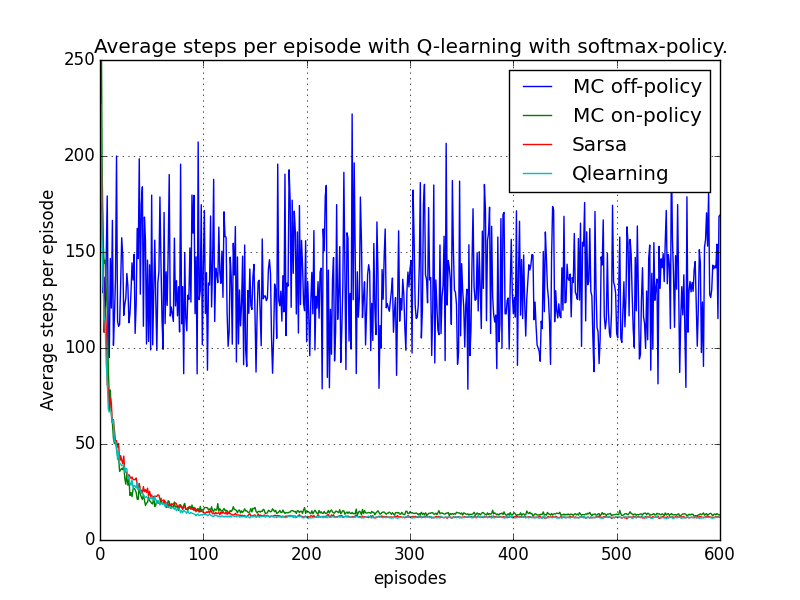
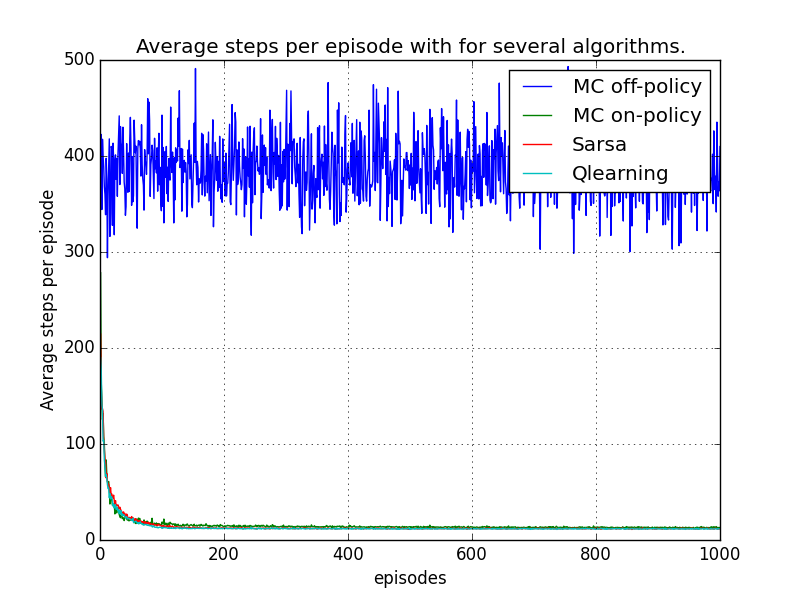
Assignment 2 finished

Changed region(s): [[0.0625, 0.12, 0.9375, 0.93], [0.0625, 0.06, 0.9062, 0.12], [0.0625, 0.24, 0.0938, 0.27]]

diff --git a/Assignment 2/MCoff.py b/Assignment 2/MCoff.py
@@ -3,20 +3,15 @@ from policies import epsGreedyPolicy, maxIndices
 import numpy as np
 import random
 
-def MCoff(episodes, behaPolicy=None, initValue=15,discount=0.9):
+def MCoff(episodes, behaPolicy, matches=[], initValue=15,discount=0.9):
 	# behaPolicy = dictionary with keys (state,action) and value P(action|state)
 
-	world = World((0,0),(1,1))
 
+	world = World((0,0),(1,1))
 	movelist = world.moveList()
-	behaPolicy = {}
-	for state in world.allStates():
-		for move in movelist:
-			behaPolicy[(state, move)] = 1.0/len(movelist)
 	def policy(world):
 		return world.pickElementWithProbs([(move,behaPolicy[(world.position,move)]) for move in movelist])
 
-	ourPolicy = {}
 	# initialize Q value table and Return list for every (s,a)-pair
 	Q = {}
 	R = {}
@@ -28,9 +23,7 @@ def MCoff(episodes, behaPolicy=None, initValue=15,discount=0.9):
 			denum[state,move] = 0.0
 			Q[state,move] = float(initValue) # some value
 			R[state,move] = [] # empty list; return = cummulative discounted reward
-			ourPolicy[state] = move
 	steps = [0]*episodes # list counting number of iterations
-
 	for epi in range(episodes):
 		time = 0
 		totalTime =0
@@ -41,11 +34,12 @@ def MCoff(episodes, behaPolicy=None, initValue=15,discount=0.9):
 		while True:
 			action = policy(world)
 			episode.append((world.position, action))
+			if action == None:
+				print action, state
 			world.move(action)
 			if world.stopState():
 				break
-			else:
-				world.performPreyMove()
+			world.performPreyMove()
 
 		# save the pairs that match, and their first occurence
 		matchingHistory = {}
@@ -58,23 +52,26 @@ def MCoff(episodes, behaPolicy=None, initValue=15,discount=0.9):
 				last = len(episode)-i
 				break
 			matchingHistory[(state, action)] = len(episode)-i - 1
-
+		
+		matches.append(len(episode)-last)
+		
 		for (state, action) in matchingHistory:
-			w = np.prod([ 1.0/behaPolicy[episode[j]] for j in range(matchingHistory[(state, action)],len(episode))])
-			num[(state,move)]  +=  w* (10.0*discount**matchingHistory[(state, action)]) # return is gamma^{T-t}*10
-			denum[(state,move)]+= w
-			Q[(state,move)]= num[(state,move)]/float(denum[(state,move)])
+			if matchingHistory[(state, action)] >= last:
+				w = np.prod([ 1.0/behaPolicy[episode[j]] for j in range(matchingHistory[(state, action)],len(episode))])
+				num[(state,move)]   += w * (10.0*discount**matchingHistory[(state, action)]) # return is gamma^{T-t}*10
+				denum[(state,move)] += w
+				Q[(state,move)]= num[(state,move)]/float(denum[(state,move)])
 
+		world.setState((-5,-5))
 		iterations = 0
 		while True:
 			iterations += 1
 			actionValues = [(maction, Q[state,maction]) for maction in world.moveList()]
 			bestAction = random.choice([actionValues[j][0] for j in maxIndices(actionValues)])
 			world.move(bestAction)
-			if world.stopState():
+			if world.stopState() or iterations > 2000:
 				break
-			else:
-				world.performPreyMove()
+			world.performPreyMove()
 		steps[epi] = iterations
 		
 			

diff --git a/Assignment 2/behaviours.py b/Assignment 2/behaviours.py
@@ -1,0 +1,55 @@
+from world import World 
+from policies import epsGreedyPolicy, maxIndices
+import numpy as np
+import random
+
+
+def randomPolicy():
+	world = World((0,0),(1,1))
+	movelist = world.moveList()
+	behaPolicy = {}
+	for state in world.allStates():
+		for move in movelist:
+			behaPolicy[(state, move)] = 1.0/len(movelist)
+	return behaPolicy
+
+def horizontalHeuristicPolicy():
+	world = World((0,0),(1,1))
+	movelist = world.moveList()
+	behaPolicy = {}
+	for state in world.allStates():
+		if state[0] > 0:
+			bestMove = (-1,0)
+		elif state[0] < 0:
+			bestMove = (1,0)
+		elif state[1] > 0:
+			bestMove = (0,-1)
+		else:
+			bestMove = (0,1)
+		for move in movelist:
+			if move == bestMove:
+				behaPolicy[(state, move)] = 0.9
+			else:
+				behaPolicy[(state, move)] = 0.1/(len(movelist)-1)
+	return behaPolicy
+
+def epsilonGreedyPolicy():
+	world = World((0,0),(1,1))
+	movelist = world.moveList()
+	behaPolicy = {}
+	for state in world.allStates():
+		bestMoves = []
+		if state[0] > 0:
+			bestMoves.append((-1,0))
+		elif state[0] < 0:
+			bestMoves.append(( 1,0))
+		if state[1] > 0:
+			bestMoves.append((0,-1))
+		elif state[1] > 0:
+			bestMoves.append((0, 1))
+		for move in movelist:
+			if move in bestMoves:
+				behaPolicy[(state, move)] = 0.9/len(bestMoves)
+			else:
+				behaPolicy[(state, move)] = 0.1/(len(movelist)-len(bestMoves))
+	return behaPolicy

diff --git a/Assignment 2/Assignment2.4.2.py b/Assignment 2/Assignment2.4.2.py
@@ -1,0 +1,47 @@
+import numpy as np
+from MCoff import MCoff
+from pylab import *
+from behaviours import *
+
+runCount = 5
+epiCount = 10000
+figure()
+
+labels =[]
+aveMatches =[]
+
+for name, policy in zip(["Random","Heuristic","Epsilon Greedy"],[randomPolicy(),horizontalHeuristicPolicy(),epsilonGreedyPolicy()]):
+	
+	steps = np.zeros((runCount,epiCount))
+	match = np.zeros((runCount,epiCount))
+	for i in range(runCount):
+		matches = []
+		steps[i,:] = np.array(MCoff(epiCount,policy,matches=matches,initValue=5))
+		match[i,:] = np.array(matches)
+		print name, i
+	aveSteps = np.mean(steps, axis=0)
+	aveMatches.append(np.mean(match, axis=0))
+
+	t = range(1, aveSteps.shape[0]+1)
+	labels += [name]
+	plot(t, aveSteps)
+
+
+plt.legend(labels)
+xlabel('episodes')
+ylabel('Average steps per episode')
+title(r'Average steps per episode with Monte Carlo Off-Policy.')
+grid(True)
+savefig("plots/steps2.4.4.png")
+close()
+
+for ave in [aveMatches[0],aveMatches[2],aveMatches[1]]:
+	plot(t, ave)
+
+plt.legend([labels[0],labels[2],labels[1]])
+xlabel('episodes')
+ylabel('Average matching (state, actions) per episode')
+title(r'Average matching state-action pairs per episode.')
+grid(True)
+savefig("plots/steps2.4.5.png")
+close()

diff --git a/Assignment 2/Assignment2.4.1.py b/Assignment 2/Assignment2.4.1.py
@@ -7,9 +7,10 @@ from MCoff import MCoff
 from sarsa import sarsa
 from policies import softmaxPolicy, epsGreedyPolicy, maxIndices
 from pylab import *
+from behaviours import *
 
 runCount = 100
-epiCount = 600
+epiCount = 1000
 figure()
 
 labels =[]
@@ -19,7 +20,7 @@ for di, epsilon in enumerate([0.1]):
 	
 	steps = np.zeros((runCount,epiCount))
 	for i in range(runCount):
-		steps[i,:] = np.array(MCoff(epiCount,initValue=5))		
+		steps[i,:] = np.array(MCoff(epiCount,randomPolicy(),initValue=5))		
 	aveSteps = np.mean(steps, axis=0)
 
 	t = range(1, aveSteps.shape[0]+1)
@@ -69,10 +70,12 @@ for di, epsilon in enumerate([0.1]):
 plt.legend(labels)
 xlabel('episodes')
 ylabel('Average steps per episode')
-title(r'Average steps per episode with Q-learning with softmax-policy.')
+title(r'Average steps per episode with for several algorithms.')
 grid(True)
-ylim(0,250)
 savefig("plots/steps2.4.1.png")
-xlim(0,100)
+ylim(0,250)
+xlim(0,300)
 savefig("plots/steps2.4.2.png")
+xlim(0,100)
+savefig("plots/steps2.4.3.png")
 close()

diff --git a/Assignment 2/Assignment2.3.3.py b/Assignment 2/Assignment2.3.3.py
@@ -124,9 +124,9 @@ xlabel('episodes')
 ylabel('Average steps per episode')
 title(r'Average steps per episode with Q-learning with softmax-policy.')
 grid(True)
-savefig("plots/steps2.3.1.png")
+savefig("plots/steps2.3.3.png")
 xlim(0,100)
-savefig("plots/steps2.3.2.png")
+savefig("plots/steps2.3.4.png")
 close()
 
 figure()
@@ -142,5 +142,5 @@ xlabel('episodes')
 ylabel('Percentage of optimal action taken')
 title(r'Percentage of optimal action taken per episode with Q-learning.')
 grid(True)
-savefig("plots/opt2.3.png")
+savefig("plots/opt2.3.2.png")
 close()

diff --git a/Assignment 2/world.py b/Assignment 2/world.py
@@ -32,6 +32,7 @@ class World(object):
 			if pick <= prob:
 				return elem
 			pick -= prob
+		return elemProbList[-1][0]
 	
 	# torialdistance on a dimension given an absolute distance and the span of dimension in the world (width height)
 	def toroidaldis(self, distance, span):
